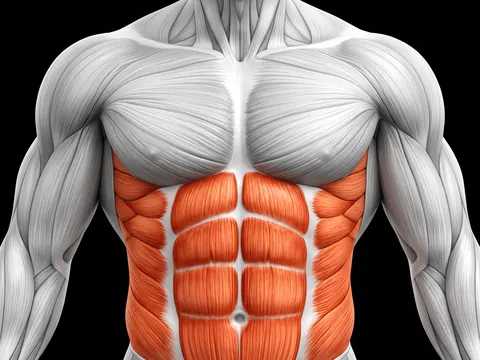
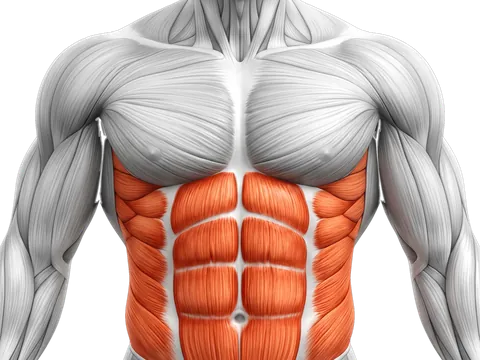
feat: 부위 그림 바탕을 투명하게

diff --git a/frontend/src/screens/full/exercise.module.css b/frontend/src/screens/full/exercise.module.css
@@ -116,15 +116,12 @@
   opacity: 0.45;
 }
 
-/* 부위 해부도. 흰 몸을 검은 바탕에 그린 그림이라 바탕을 지우지 않고 타일로 둔다 —
-   지우면 흰 카드 위에서 몸이 묻힌다 */
+/* 부위 해부도. 바탕은 투명이라 카드 색 위에 몸만 얹힌다 */
 .partShot {
   display: block;
   width: 100%;
   height: auto;
   aspect-ratio: 4 / 3;
-  border-radius: var(--radius-md);
-  background: #000;
 }
 
 .partName {

diff --git a/frontend/public/parts/CREDITS.md b/frontend/public/parts/CREDITS.md
@@ -4,4 +4,4 @@
 
 - Google Gemini 이미지 생성으로 만들었다(2026-10). 같은 프롬프트에 대상 근육·방향·구도만 바꿔 한 세트로 맞췄다.
 - 생성 원본(2048px PNG)은 저장소에 넣지 않고 로컬 `sample/anatomy/`에 보관한다.
-- 앱용으로 오른쪽 아래 생성 표시를 지우고, 가운데를 4:3으로 잘라 480×360 WebP로 줄였다.
+- 앱용으로 오른쪽 아래 생성 표시를 지우고, 검은 바탕을 투명하게 뺀 뒤(가장자리에서 이어진 검정만 — 몸 안의 어두운 골은 남긴다) 가운데를 4:3으로 잘라 480×360 WebP로 줄였다.
